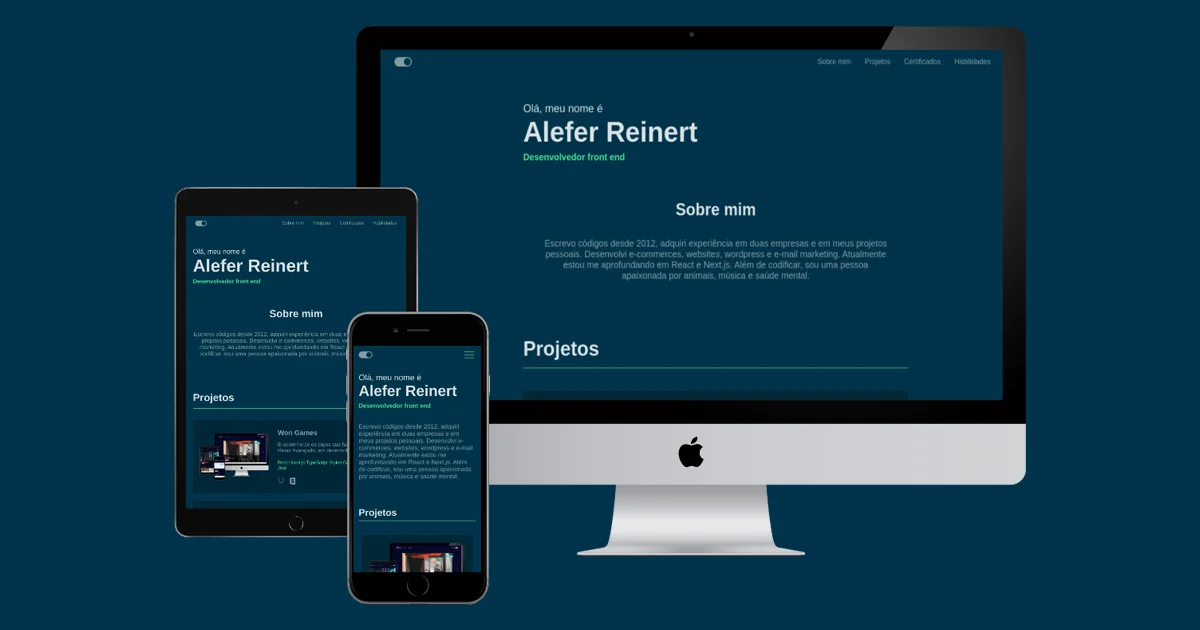
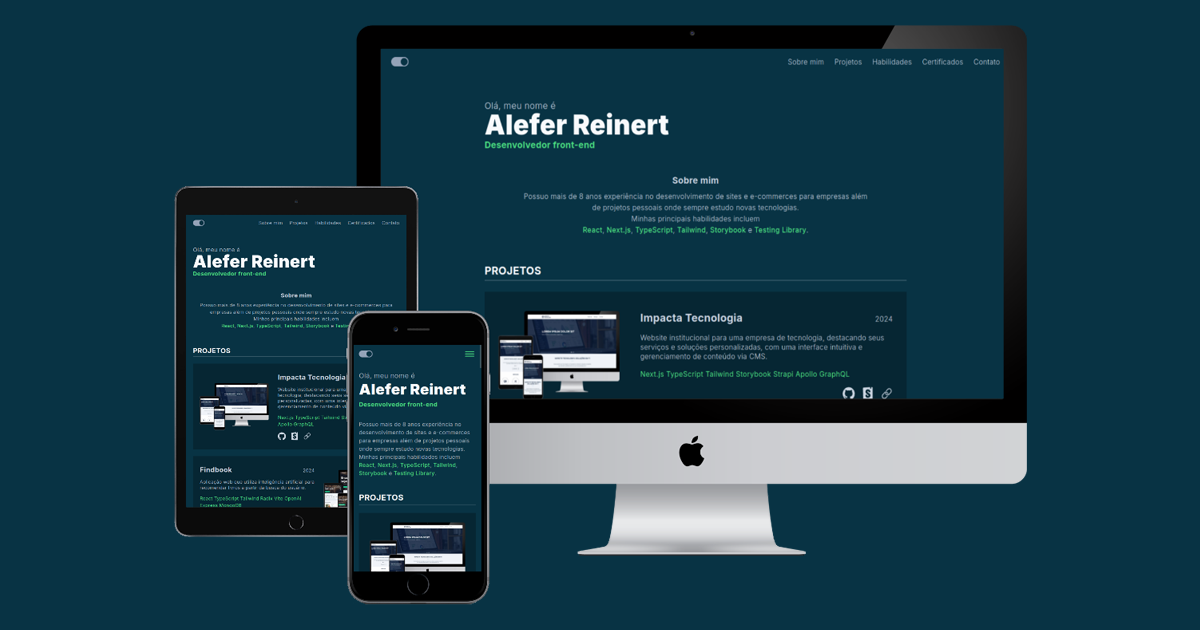
Change skills layout and other colors

diff --git a/src/app/content.tsx b/src/app/content.tsx
@@ -9,13 +9,11 @@ import {
   SiApollographql,
   SiCss3,
   SiFigma,
-  SiGit,
   SiGithub,
   SiGraphql,
   SiGulp,
   SiHtml5,
   SiJavascript,
-  SiJest,
   SiLess,
   SiLinkedin,
   SiNextdotjs,
@@ -55,7 +53,7 @@ export const menu: NavMenuItemProps[] = [
 
 export const about: AboutProps = {
   name: 'Alefer Reinert',
-  role: 'Desenvolvedor front-end',
+  role: 'Desenvolvedor Front-end',
   email: 'aleferreinert@gmail.com',
   websiteLink: 'https://aleferreinert.netlify.app',
   phone: '47999558118',
@@ -295,30 +293,26 @@ export const certificates: CertificateProps[] = [
 ]
 
 export const skills: SkillProps[] = [
-  { title: 'HTML5', icon: SiHtml5 },
-  { title: 'CSS3', icon: SiCss3 },
-  { title: 'JavaScript', icon: SiJavascript },
-  { title: 'TypeScript', icon: SiTypescript },
-  { title: 'LESS', icon: SiLess },
-  { title: 'SASS', icon: SiSass },
-  { title: 'Tailwind', icon: SiTailwindcss },
-  { title: 'React', icon: SiReact },
-  { title: 'Next.js', icon: SiNextdotjs },
-  { title: 'Storybook', icon: SiStorybook },
-  { title: 'Git', icon: SiGit },
-  { title: 'Jest', icon: SiJest },
-  { title: 'Photoshop', icon: SiAdobephotoshop },
-  { title: 'TestingLibrary', icon: SiTestinglibrary },
-  { title: 'Gulp', icon: SiGulp },
-  { title: 'Strapi', icon: SiStrapi },
-  { title: 'GraphQL', icon: SiGraphql },
-  { title: 'Apollo GraphQL', icon: SiApollographql, shortTitle: 'Apollo' },
-  { title: 'Figma', icon: SiFigma },
-  {
-    title: 'Styled Components',
-    icon: SiStyledcomponents,
-    shortTitle: 'CSSinJS'
-  }
+  { title: 'HTML5', icon: SiHtml5, color: '#eb5f31' },
+  { title: 'CSS3', icon: SiCss3, color: '#39a6d6' },
+  { title: 'JavaScript', icon: SiJavascript, color: '#eed449' },
+  { title: 'TypeScript', icon: SiTypescript, color: '#1c76c7' },
+  // { title: 'Git', icon: SiGit, color: '#ed4730' },
+  { title: 'LESS', icon: SiLess, color: '#428bca' },
+  { title: 'SASS', icon: SiSass, color: '#cb6199' },
+  { title: 'Tailwind', icon: SiTailwindcss, color: '#4abff6' },
+  { title: 'React', icon: SiReact, color: '#217fa3' },
+  { title: 'Next.js', icon: SiNextdotjs, color: '#000000' },
+  { title: 'Storybook', icon: SiStorybook, color: '#f93e85' },
+  // { title: 'Jest', icon: SiJest, color: '#36c326' },
+  { title: 'TestingLibrary', icon: SiTestinglibrary, color: '#e7303e' },
+  { title: 'Gulp', icon: SiGulp, color: '#ca4049' },
+  { title: 'StyledComponents', icon: SiStyledcomponents, color: '#F6C731', shortTitle: 'CSSinJS' },
+  { title: 'Strapi', icon: SiStrapi, color: '#4a4afc' },
+  { title: 'GraphQL', icon: SiGraphql, color: '#ef009a' },
+  { title: 'ApolloGraphQL', icon: SiApollographql, color: '#f64917', shortTitle: 'Apollo' },
+  { title: 'Photoshop', icon: SiAdobephotoshop, color: '#3fa5f5' },
+  { title: 'Figma', icon: SiFigma, color: '#9D56F7' }
 ]
 
 export const socials: SocialProps[] = [
@@ -329,7 +323,7 @@ export const socials: SocialProps[] = [
   },
   {
     name: 'LinkedIn',
-    link: 'https://www.linkedin.com/in/aleferreinert',
+    link: 'https://www.linkedin.com/in/AleferReinert',
     icon: SiLinkedin
   },
   {

diff --git a/src/components/Skill/Skill.stories.tsx b/src/components/Skill/Skill.stories.tsx
@@ -7,7 +7,7 @@ const meta: Meta<typeof Skill> = {
   title: 'Components/Skill',
   component: Skill,
   args: {
-    title: 'Styled Components',
+    title: 'StyledComponents',
     icon: SiStyledcomponents
   }
 }
@@ -15,40 +15,23 @@ const meta: Meta<typeof Skill> = {
 export default meta
 type Story = StoryObj<typeof Skill>
 
-export const Mobile: Story = {
-  parameters: {
-    viewport: { defaultViewport: 'xs' }
-  },
+export const Default: Story = {
   play: async ({ canvasElement, step }) => {
     const canvas = within(canvasElement)
 
     await step('Has title in li', () => {
-      const skill = canvas.getByRole('listitem')
-      expect(skill).toHaveAttribute('title', 'Styled Components')
+      const listItem = canvas.getByRole('listitem')
+      expect(listItem).toHaveAttribute('title', 'StyledComponents')
     })
 
-    await step('Visible svg with aria-hidden', () => {
-      const svg = canvas.getByRole('img', { hidden: true })
+    await step('Visible svg', () => {
+      const svg = canvas.getByRole('img')
       expect(svg).toBeVisible()
-      expect(svg).toHaveAttribute('aria-hidden')
     })
 
-    await step('Hidden heading', () => {
-      const svg = canvas.getByRole('heading', { level: 3, hidden: true })
-      waitFor(() => expect(svg).toHaveStyle({ display: 'none' }))
-      // a linha acima está retornando display block em vez de none
-    })
-  }
-}
-
-export const Desktop: Story = {
-  play: async ({ canvasElement, step }) => {
-    const canvas = within(canvasElement)
-
-    await step('Visible heading', () => {
-      const svg = canvas.getByRole('heading', { level: 3 })
-      expect(svg).toBeVisible()
-      expect(svg).toHaveTextContent('Styled Components')
+    await step('Visible skill name', () => {
+      const skillName = canvas.getByText('StyledComponents')
+      waitFor(() => expect(skillName).toBeVisible())
     })
   }
 }
@@ -61,13 +44,13 @@ export const WithShortTile: Story = {
     const canvas = within(canvasElement)
 
     await step('shortTitle attribute in heading', () => {
-      const svg = canvas.getByRole('heading', { level: 3 })
-      expect(svg).toHaveTextContent('CSSinJS')
+      const skillName = canvas.getByText('CSSinJS')
+      expect(skillName).toBeVisible()
     })
 
     await step('Normal title attribute in title', () => {
-      const skill = canvas.getByRole('listitem')
-      expect(skill).toHaveAttribute('title', 'Styled Components')
+      const listItem = canvas.getByRole('listitem')
+      expect(listItem).toHaveAttribute('title', 'StyledComponents')
     })
   }
 }

diff --git a/src/app/layout.tsx b/src/app/layout.tsx
@@ -16,9 +16,7 @@ export const metadata: Metadata = {
   title: `Portfólio | ${about.name} - ${about.role}`
 }
 
-export default async function RootLayout({
-  children
-}: Readonly<{ children: ReactNode }>) {
+export default async function RootLayout({ children }: Readonly<{ children: ReactNode }>) {
   return (
     <html lang='pt-BR' className='scroll-smooth dark'>
       <head>
@@ -34,19 +32,13 @@ export default async function RootLayout({
         <meta name='theme-color' content={twColors.cyan[950]} />
 
         {/* Visualização de compartilhamento em redes sociais */}
-        <meta
-          property='og:title'
-          content={`Portfólio | ${about.name} - ${about.role}`}
-        />
+        <meta property='og:title' content={`Portfólio | ${about.name} - ${about.role}`} />
         <meta name='author' content={about.name} />
         <meta property='og:description' content={about.googleDescription} />
         <meta property='og:type' content='website' />
         <meta property='og:url' content={about.websiteLink} />
         <meta property='og:image' content={imageSocialShare.src} />
-        <meta
-          name='og:image:alt'
-          content='Imagem que mostra o site responsivo em um celular, tablet e notebook.'
-        />
+        <meta name='og:image:alt' content='Imagem que mostra o site responsivo em um celular, tablet e notebook.' />
         <meta property='og:image:width' content='1200' />
         <meta property='og:image:height' content='630' />
         <meta name='twitter:card' content='summary_large_image' />

diff --git a/src/components/Certificate/Certificate.tsx b/src/components/Certificate/Certificate.tsx
@@ -7,22 +7,12 @@ export interface CertificateProps {
   link: string
 }
 
-export function Certificate({
-  title,
-  organization,
-  conclusionDate,
-  link
-}: CertificateProps) {
+export function Certificate({ title, organization, conclusionDate, link }: CertificateProps) {
   return (
     <li data-testid='CertificateComponent'>
-      <Link
-        title='Visualizar certificado'
-        href={link!}
-        target='_blank'
-        className='relative group'
-      >
+      <Link title='Visualizar certificado' href={link!} target='_blank' className='relative group'>
         <span className='w-[1px] h-full duration-300 group-hover:bg-cyan-950 dark:group-hover:bg-green-400 max-h-[0%] group-hover:max-h-full transition-all absolute left-0 top-0'></span>
-        <h3 className='text-neutral-800 dark:text-white font-medium leading-5 group-hover:translate-x-3 group-hover:text-cyan-950 dark:group-hover:text-green-400 transition'>
+        <h3 className='text-neutral-800 dark:text-slate-50 font-medium leading-5 group-hover:translate-x-3 group-hover:text-cyan-950 dark:group-hover:text-green-400 transition'>
           {title}
         </h3>
         <p className='text-sm group-hover:translate-x-3 transition duration-300'>

diff --git a/src/components/Project/Project.tsx b/src/components/Project/Project.tsx
@@ -52,18 +52,11 @@ export function Project({
       </div>
       <div className='flex flex-col flex-shrink items-center gap-4 mx-auto w-full tex-center md:text-left'>
         <h3 className='w-full flex justify-between items-baseline'>
-          <span className='text-2xl font-bold'>{title}</span>
+          <span className='text-2xl font-bold dark:text-slate-50'>{title}</span>
           <span aria-label='ano'>{year}</span>
         </h3>
-        <p
-          aria-label='descrição'
-          className='leading-5 w-full'
-          dangerouslySetInnerHTML={{ __html: shortDescription }}
-        />
-        <p
-          className='w-full text-cyan-950 dark:text-green-400 font-normal'
-          title='Tecnologias utilizadas'
-        >
+        <p aria-label='descrição' className='leading-5 w-full' dangerouslySetInnerHTML={{ __html: shortDescription }} />
+        <p className='w-full text-cyan-950 dark:text-green-400 font-normal' title='Tecnologias utilizadas'>
           {skills}
         </p>
         <ProjectLinks

diff --git a/src/components/Skills/Skills.stories.tsx b/src/components/Skills/Skills.stories.tsx
@@ -15,8 +15,7 @@ export default meta
 
 type Story = StoryObj<typeof Skills>
 
-export const Default: Story = {
-  name: 'Skills',
+export const Mobile: Story = {
   parameters: {
     viewport: { defaultViewport: 'xs' }
   },
@@ -28,9 +27,25 @@ export const Default: Story = {
       expect(HeadingComponent).toHaveTextContent('Habilidades')
     })
 
-    await step('Render 20 skills', () => {
+    await step('Render 18 skills', () => {
       const skills = canvas.getAllByRole('listitem')
-      expect(skills.length).toBeGreaterThanOrEqual(20)
+      expect(skills.length).toBeGreaterThanOrEqual(18)
+    })
+
+    await step('3 columns', () => {
+      const list = canvas.getByRole('list')
+      expect(list).toHaveClass('grid-cols-3')
+    })
+  }
+}
+
+export const Desktop: Story = {
+  play: async ({ canvasElement, step }) => {
+    const canvas = within(canvasElement)
+
+    await step('6 columns', () => {
+      const list = canvas.getByRole('list')
+      expect(list).toHaveClass('sm:grid-cols-6')
     })
   }
 }

diff --git a/src/components/Skill/Skill.tsx b/src/components/Skill/Skill.tsx
@@ -4,6 +4,7 @@ export interface SkillProps {
   title: string
   icon: IconType
   shortTitle?: string
+  color?: string
 }
 
 export function Skill({ title, icon, shortTitle }: SkillProps) {
@@ -13,12 +14,10 @@ export function Skill({ title, icon, shortTitle }: SkillProps) {
     <li
       data-testid='SkillComponent'
       title={title}
-      className='flex flex-col items-center gap-3'
+      className='flex flex-col items-center gap-2 bg-black bg-opacity-5 dark:bg-opacity-25 p-4'
     >
-      <Icon aria-hidden role='img' className='size-8' />
-      <h3 className='hidden text-sm leading-none text-center lg:block'>
-        {shortTitle ?? title}
-      </h3>
+      <Icon aria-label={title} role='img' className='size-8 fill-black/90 dark:fill-slate-50' />
+      <span className='text-[10px] font-normal'>{shortTitle ?? title}</span>
     </li>
   )
 }

diff --git a/src/components/Heading/Heading.tsx b/src/components/Heading/Heading.tsx
@@ -8,7 +8,7 @@ export function Heading({ children }: HeadingProps) {
   return (
     <h2
       data-testid='HeadingComponent'
-      className='text-zinc-800 dark:text-slate-50 text-2xl leading-none font-bold uppercase pt-12 pb-2 mb-6 border-b border-zinc-800/50 dark:border-slate-200/50 md:pt-16'
+      className='text-cyan-950 dark:text-green-400 text-2xl leading-none font-bold uppercase pt-12 pb-2 mb-6 border-b border-zinc-800/50 dark:border-slate-200/50 md:pt-16'
     >
       {children}
     </h2>

diff --git a/src/components/Skills/Skills.tsx b/src/components/Skills/Skills.tsx
@@ -12,7 +12,7 @@ export function Skills({ skills }: SkillsProps) {
       <Container>
         <Heading>Habilidades</Heading>
 
-        <ul className='grid grid-cols-[repeat(5,min-content)] gap-y-4 justify-between sm:grid-cols-[repeat(10,min-content)] sm:gap-y-6 lg:gap-y-10'>
+        <ul className='grid grid-cols-3 gap-1 justify-between sm:grid-cols-6'>
           {skills.map((skill, index) => {
             return <Skill key={index} {...skill} />
           })}
